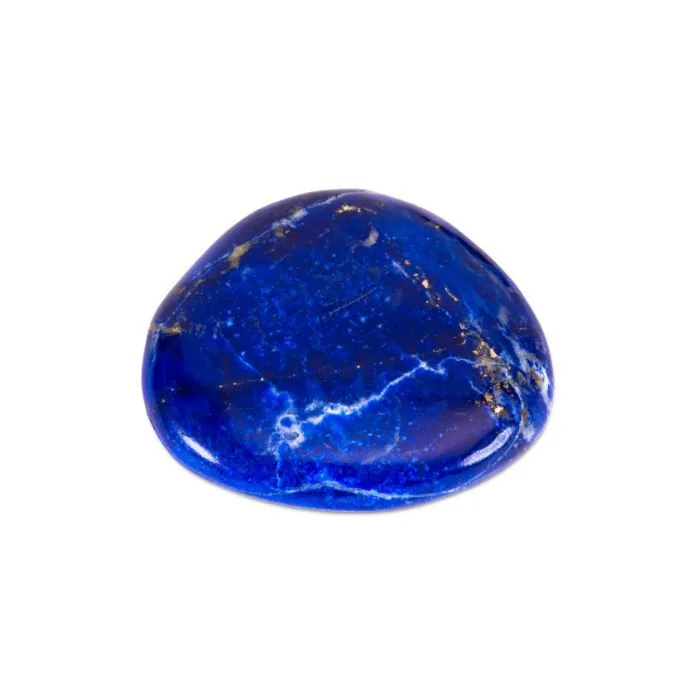
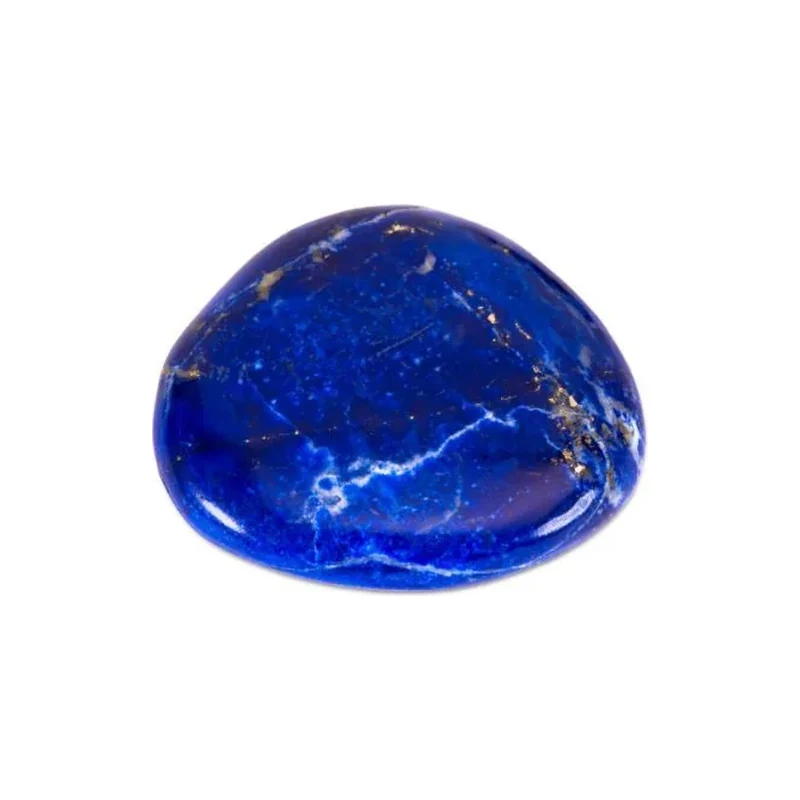
One stone, one size
Owner, looking at the live gem counter: "fix the sizes of the stones, to match
the same size visually … the correct size look is yellow sapphire and ruby,
match all stones to be visible in that size."

THIRTY PHOTOGRAPHS, THIRTY SCALES. Measured as each stone's bounding box against
its own frame, the subject filled anywhere from 34% to 92% — moonstone 92%,
pearl 86%, ruby 64%, yellow sapphire 38%, red coral 34%. On a shelf where every
tile is the same square that is a pearl arriving like a fist and a coral like a
bead. Nothing about the stones is that different; it was the framing, thirty
times over.

AND THE CANVASES DISAGREED TOO: 395×395 up to 900×900, several not square at all
(600×900, 675×900, 500×417). `.st-shot` is a square box with `object-fit:
contain`, so a tall photograph is letterboxed and its stone shrinks again — a
second reduction on top of the first, with nothing on screen to explain either.

HOW EACH WAS RE-CUT. Bounding box measured against the image's own paper colour,
sampled from the four corners rather than assumed white; rescaled so the
subject's longer side is 62% of the frame; centred on an 800×800 square. 62% is
ruby's original framing — the reference the owner named.

NOTHING IS RETOUCHED. No colour, no background removal, no sharpening: the
pixels are the pixels, re-scaled and re-centred. Shadows and reflections are
kept and sit inside the box, which is why blue sapphire — whose reflection is
[…]

diff --git a/together-city-react/src/app/one-stone-one-size.test.ts b/together-city-react/src/app/one-stone-one-size.test.ts
@@ -1,0 +1,83 @@
+import { describe, it, expect } from 'vitest';
+import { readFileSync, readdirSync, statSync } from 'node:fs';
+import { dirname, join } from 'node:path';
+import { fileURLToPath } from 'node:url';
+
+const APP = join(dirname(fileURLToPath(import.meta.url)), '..', '..');
+const DIR = join(APP, 'public/assets/gems');
+const API = join(APP, '..', 'together-city-chat', 'src');
+
+/** The three-branch WebP header read `relief.spec` uses for the tarot deck. */
+function size(file: string): { w: number; h: number } {
+  const b = readFileSync(file);
+  const tag = b.subarray(12, 16).toString('latin1');
+  if (tag === 'VP8X') return { w: b.readUIntLE(24, 3) + 1, h: b.readUIntLE(27, 3) + 1 };
+  if (tag === 'VP8 ') return { w: b.readUInt16LE(26) & 0x3fff, h: b.readUInt16LE(28) & 0x3fff };
+  const n = b.readUInt32LE(21);
+  return { w: (n & 0x3fff) + 1, h: ((n >> 14) & 0x3fff) + 1 };
+}
+
+/**
+ * ── ONE STONE, ONE SIZE ─────────────────────────────────────────────────────
+ *
+ * Owner, 23 Aug, looking at the gem counter: "fix the sizes of the stones, to
+ * match the same size visually … the correct size look is yellow sapphire and
+ * ruby, match all stones to be visible in that size."
+ *
+ * THE THIRTY PHOTOGRAPHS WERE SHOT AT THIRTY SCALES. Measured against their own
+ * frames, the stone filled anywhere from 34% (red coral) to 92% (moonstone) —
+ * so on a shelf where every tile is the same square, a pearl arrived looking
+ * like a fist and a coral like a bead. Nothing about the stones is that
+ * different; it was the framing.
+ *
+ * Each file was re-cut: subject bounding box measured against the image's OWN
+ * paper colour, rescaled so its longer side is 62% of the frame — ruby's
+ * original framing, which is the one the owner named — and centred on an
+ * 800×800 square.
+ *
+ * ── WHAT THIS FILE CAN AND CANNOT CHECK ─────────────────────────────────────
+ *
+ * The canvas, yes: one shape, one size, read straight out of the WebP header.
+ * That is the half that breaks silently, because `.st-shot` is a square box
+ * with `object-fit: contain` — drop in a 600×900 photograph and the stone is
+ * letterboxed smaller than its neighbours with nothing on screen to say why.
+ *
+ * The subject's scale WITHIN the frame, no: that needs a decoded bitmap, and
+ * decoding WebP in a unit test means a dependency this repo does not have and
+ * should not grow for one assertion. Saying so here is better than a test that
+ * implies it checked. If a stone ever looks wrong again, the measurement is a
+ * bounding box against the corner colour — see the commit that landed this.
+ */
+describe('one stone, one size', () => {
+  const files = readdirSync(DIR).filter((f) => f.endsWith('.webp'));
+
+  it('has a photograph for every stone in the catalogue', () => {
+    const catalogue = readFileSync(join(API, 'astrology/gems/gem-catalog.ts'), 'utf8');
+    const ids = [...catalogue.matchAll(/^\s*number: \d+, id: '([^']+)'/gm)].map((m) => m[1]);
+    expect(ids.length).toBe(30);
+    const missing = ids.filter((id) => !files.includes(`${id}.webp`));
+    expect(missing).toEqual([]);
+  });
+
+  /**
+   * ONE SHAPE. A square canvas is what makes the tile's `object-fit: contain`
+   * a no-op rather than a letterbox, so every stone is scaled by the same rule.
+   */
+  it('cuts every stone to the same square frame', () => {
+    const odd = files
+      .map((f) => ({ f, ...size(join(DIR, f)) }))
+      .filter(({ w, h }) => w !== 800 || h !== 800);
+    expect(odd).toEqual([]);
+  });
+
+  /**
+   * AND STAYS THE SIZE OF A THUMBNAIL. Thirty of these load on one shelf, all
+   * above the fold. The ceiling is roughly twice the largest today.
+   */
+  it('keeps each one the weight of a thumbnail', () => {
+    const heavy = files
+      .map((f) => ({ f, kb: Math.round(statSync(join(DIR, f)).size / 1024) }))
+      .filter(({ kb }) => kb > 90);
+    expect(heavy).toEqual([]);
+  });
+});
